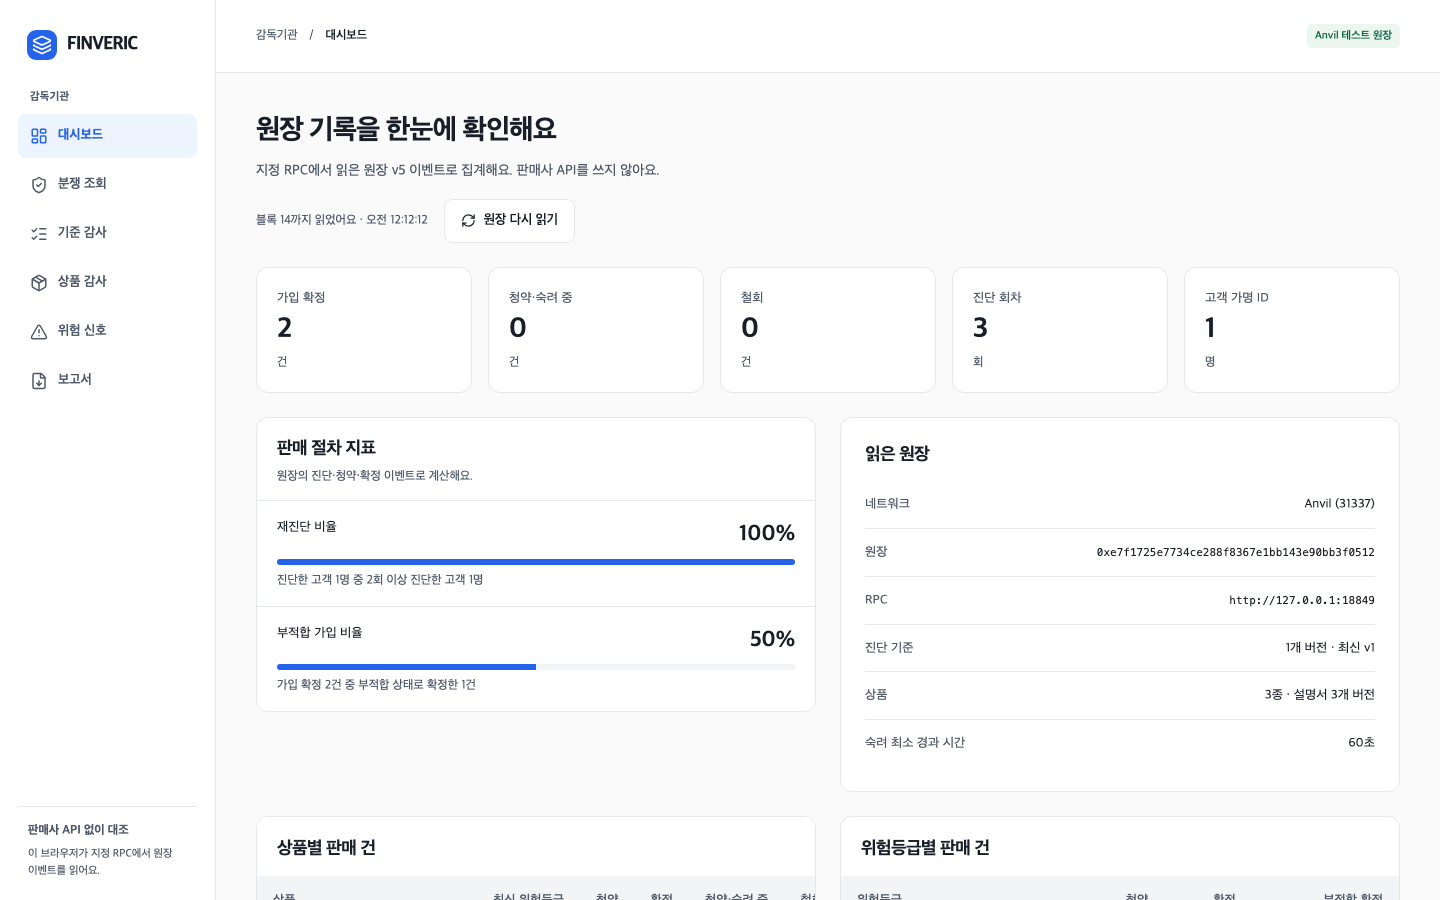
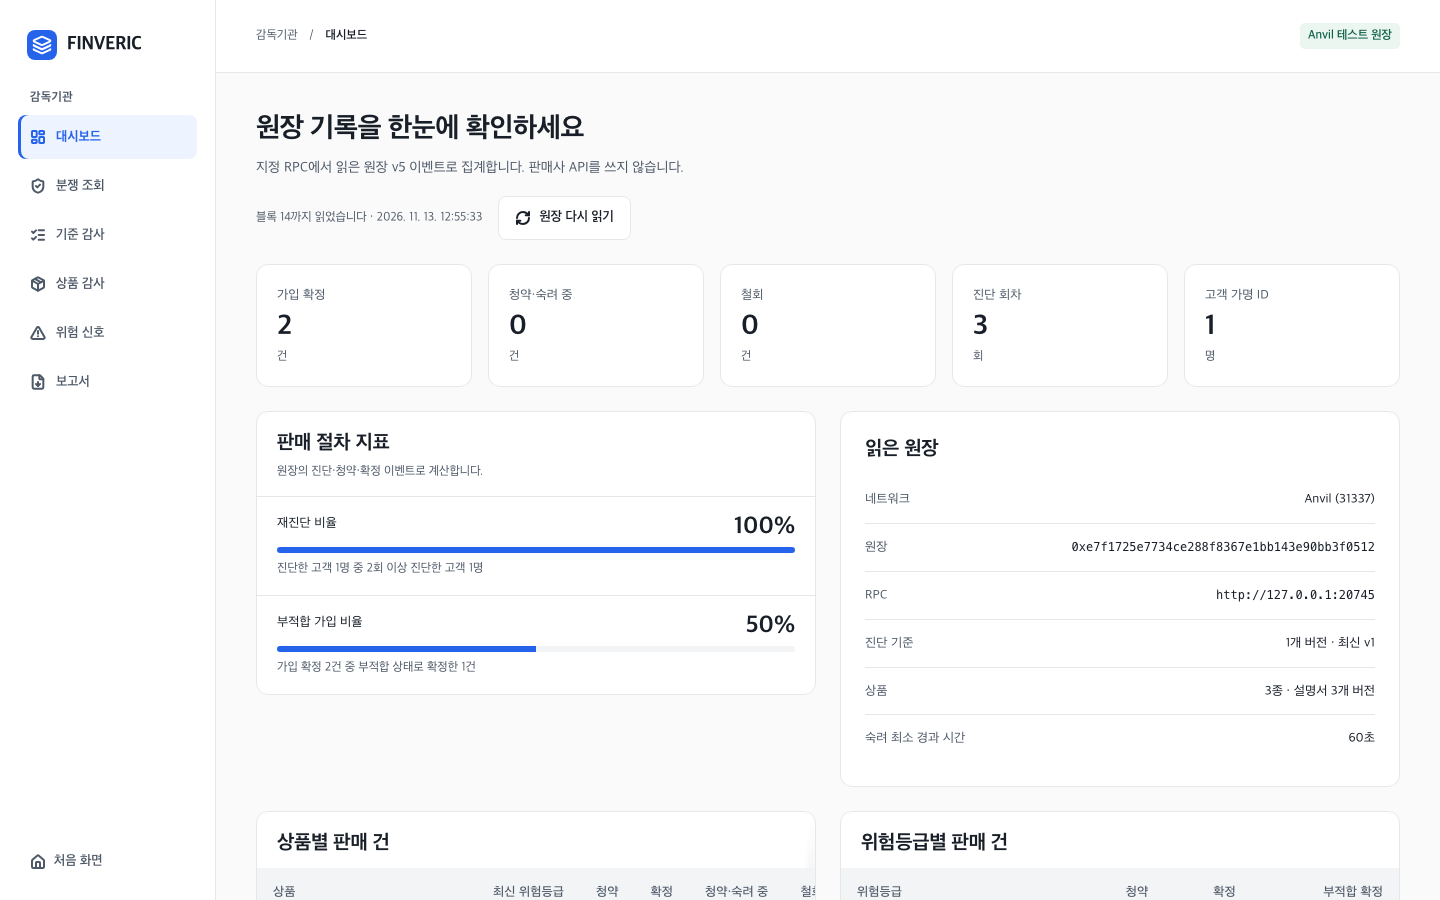
Retake README screenshots after the redesign
Eight 1440x900 captures from a local Anvil ledger filled with the demo
data (three diagnoses, confirmed ELS and ELB sales): entry, diagnosis
rules, sales review, API docs, the channel suitability step, channel
record check, auditor dashboard and dispute check. client-verify.png is
renamed to channel-verify.png because the record check now lives in the
channel sample app.

diff --git a/README.md b/README.md
@@ -54,12 +54,14 @@
 | 진입 화면                                                       | 진단 기준 (client)                                    |
 | --------------------------------------------------------------- | ----------------------------------------------------- |
 | ![진입 화면](docs/assets/screens/entry.png)                     | ![진단 기준](docs/assets/screens/client-rules.png)    |
-| **판매·검토 (client)**                                          | **기록 확인 (증권사 앱 예시)**                        |
-| ![판매·검토](docs/assets/screens/client-review.png)             | ![기록 확인](docs/assets/screens/client-verify.png)   |
+| **판매·검토 (client)**                                          | **API 문서**                                          |
+| ![판매·검토](docs/assets/screens/client-review.png)             | ![API 문서](docs/assets/screens/api-docs.png)         |
+| **적합성 확인 (증권사 앱 예시)**                                | **기록 확인 (증권사 앱 예시)**                        |
+| ![적합성 확인](docs/assets/screens/channel-enroll.png)          | ![기록 확인](docs/assets/screens/channel-verify.png)  |
 | **대시보드 (auditor)**                                          | **분쟁 조회 (auditor)**                               |
 | ![감독기관 대시보드](docs/assets/screens/auditor-dashboard.png) | ![분쟁 조회](docs/assets/screens/auditor-dispute.png) |
 
-증권사 앱 예시는 판매사 앱이 FINVERIC API로 만들 고객 화면의 예시다. 고객은 FINVERIC 화면을 직접 쓰지 않는다. 판매사 콘솔 사이드바 하단의 **증권사 앱 예시**와 **API 문서**는 새 탭으로 열린다. API 문서는 넓은 화면에서 메뉴, 설명, 요청·응답 예시의 3단으로 보인다. client와 auditor는 서로 링크하지 않는다. 사이드 메뉴의 `FINVERIC`과 **처음 화면**이 진입 화면으로 간다. 캡처는 로컬 Anvil 시연 원장에서 찍었다.
+증권사 앱 예시는 판매사 앱이 FINVERIC API로 만들 고객 화면의 예시다. 고객은 FINVERIC 화면을 직접 쓰지 않는다. 판매사 콘솔 사이드바 하단의 **증권사 앱 예시**와 **API 문서**는 새 탭으로 열린다. API 문서는 넓은 화면에서 메뉴, 설명, 요청·응답 예시의 3단으로 보인다. client와 auditor는 서로 링크하지 않는다. 사이드 메뉴의 `FINVERIC`과 **처음 화면**이 진입 화면으로 간다. 캡처는 로컬 Anvil 원장에 시연 데이터(진단 3회, 확정한 ELS·ELB 가입)를 채운 뒤 1440×900으로 찍었다.
 
 ## 🏭 아키텍처
 

diff --git a/docs/team.md b/docs/team.md
@@ -19,7 +19,7 @@
 | 제품 정의(PRD)      | 개발           | [docs/prd.md](prd.md)                                                                         | v5 초안   |
 | 시장 조사           | 자료조사       | [docs/market-research.md](market-research.md)                                                 | 팀 조사 반영, 일부 미대조 |
 | 아키텍처·흐름 그림  | 개발           | [architecture.png](assets/architecture.png), [flow.png](assets/flow.png), [cover.png](assets/cover.png) | 완료      |
-| 화면 캡처 6장       | 개발           | [docs/assets/screens/](assets/screens/)                                                       | 완료      |
+| 화면 캡처 8장       | 개발           | [docs/assets/screens/](assets/screens/)                                                       | 완료      |
 | 발표 순서·시연 수치 | 개발           | [실행과 시연](runbook.md), [PRD 시연 시나리오](prd.md#기말-시연-시나리오)                     | 완료      |
 | QA 기록             | 모두           | [QA 기록](qa.md), GitHub 이슈(`QA 이슈` 템플릿)                                              | 0차 완료  |
 | 발표 PPT            | 발표 자료·영상 | `<공유 드라이브 링크>`                                                                        | 준비      |
